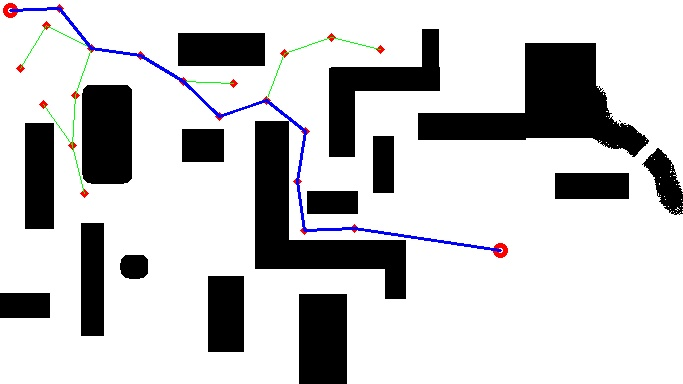
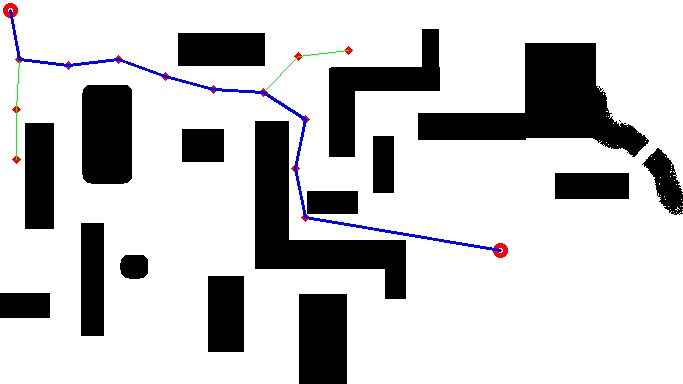
addition of RRT class

diff --git a/Pathplanning/RRT/rrt.py b/Pathplanning/RRT/rrt.py
@@ -23,6 +23,9 @@ class Nodes:
         self.parent_y = []
 
 class RRT:
+    def __init__(self):
+        self.node_list = [0]
+        
     def collision(self, x1,y1,x2,y2):
         color=[]
         x = list(np.arange(x1,x2,(x2-x1)/100))
@@ -30,7 +33,7 @@ class RRT:
         #print("collision",x,y)
         for i in range(len(x)):
             #print(int(x[i]),int(y[i]))
-            color.append(img[int(y[i]),int(x[i])])
+            color.append(self.img[int(y[i]),int(x[i])])
         if (0 in color):
             return True #collision
         else:
@@ -46,15 +49,15 @@ class RRT:
         #print("check_collision",x,y)
 
         # TODO: trim the branch if its going out of image area
-        # print("Image shape",img.shape)
-        hy,hx=img.shape
+        # print("Image shape",self.img.shape)
+        hy,hx=self.img.shape
         if y<0 or y>hy or x<0 or x>hx:
             print("Point out of image bound")
             directCon = False
             nodeCon = False
         else:
             # check direct connection
-            if self.collision(x,y,end[0],end[1]):
+            if self.collision(x,y,self.end[0],self.end[1]):
                 directCon = False
             else:
                 directCon=True
@@ -76,8 +79,8 @@ class RRT:
     # return the neaerst node index
     def nearest_node(self, x,y):
         temp_dist=[]
-        for i in range(len(node_list)):
-            dist,_ = self.dist_and_angle(x,y,node_list[i].x,node_list[i].y)
+        for i in range(len(self.node_list)):
+            dist,_ = self.dist_and_angle(x,y,self.node_list[i].x,self.node_list[i].y)
             temp_dist.append(dist)
         return temp_dist.index(min(temp_dist))
 
@@ -88,20 +91,25 @@ class RRT:
         return (new_x,new_y)
 
 
-    def RRT(self, img, img2, start, end, stepSize):
-        h,l= img.shape # dim of the loaded image
-        # print(img.shape) # (384, 683)
+    def RRT(self, img, img2, coordinates, stepSize):
+        self.start =(coordinates[0],coordinates[1])
+        self.end =(coordinates[2],coordinates[3])
+        self.img = img
+        self.img2 = img2
+        h,l= self.img.shape # dim of the loaded image
+        # print(self.img.shape) # (384, 683)
         # print(h,l)
 
+
         # insert the starting point in the node class
-        # node_list = [0] # list to store all the node points         
-        node_list[0] = Nodes(start[0],start[1])
-        node_list[0].parent_x.append(start[0])
-        node_list[0].parent_y.append(start[1])
+        # self.node_list = [0] # list to store all the node points         
+        self.node_list[0] = Nodes(self.start[0],self.start[1])
+        self.node_list[0].parent_x.append(self.start[0])
+        self.node_list[0].parent_y.append(self.start[1])
 
         # display start and end
-        cv2.circle(img2, (start[0],start[1]), 5,(0,0,255),thickness=3, lineType=8)
-        cv2.circle(img2, (end[0],end[1]), 5,(0,0,255),thickness=3, lineType=8)
+        cv2.circle(self.img2, (self.start[0],self.start[1]), 5,(0,0,255),thickness=3, lineType=8)
+        cv2.circle(self.img2, (self.end[0],self.end[1]), 5,(0,0,255),thickness=3, lineType=8)
 
         i=1
         pathFound = False
@@ -110,8 +118,8 @@ class RRT:
             #print("Random points:",nx,ny)
 
             nearest_ind = self.nearest_node(nx,ny)
-            nearest_x = node_list[nearest_ind].x
-            nearest_y = node_list[nearest_ind].y
+            nearest_x = self.node_list[nearest_ind].x
+            nearest_y = self.node_list[nearest_ind].y
             #print("Nearest node coordinates:",nearest_x,nearest_y)
 
             #check direct connection
@@ -120,42 +128,42 @@ class RRT:
 
             if directCon and nodeCon:
                 #print("Node can connect directly with end")
-                node_list.append(i)
-                node_list[i] = Nodes(tx,ty)
-                node_list[i].parent_x = node_list[nearest_ind].parent_x.copy()
-                node_list[i].parent_y = node_list[nearest_ind].parent_y.copy()
-                node_list[i].parent_x.append(tx)
-                node_list[i].parent_y.append(ty)
+                self.node_list.append(i)
+                self.node_list[i] = Nodes(tx,ty)
+                self.node_list[i].parent_x = self.node_list[nearest_ind].parent_x.copy()
+                self.node_list[i].parent_y = self.node_list[nearest_ind].parent_y.copy()
+                self.node_list[i].parent_x.append(tx)
+                self.node_list[i].parent_y.append(ty)
 
-                cv2.circle(img2, (int(tx),int(ty)), 2,(0,0,255),thickness=3, lineType=8)
-                cv2.line(img2, (int(tx),int(ty)), (int(node_list[nearest_ind].x),int(node_list[nearest_ind].y)), (0,255,0), thickness=1, lineType=8)
-                cv2.line(img2, (int(tx),int(ty)), (end[0],end[1]), (255,0,0), thickness=2, lineType=8)
+                cv2.circle(self.img2, (int(tx),int(ty)), 2,(0,0,255),thickness=3, lineType=8)
+                cv2.line(self.img2, (int(tx),int(ty)), (int(self.node_list[nearest_ind].x),int(self.node_list[nearest_ind].y)), (0,255,0), thickness=1, lineType=8)
+                cv2.line(self.img2, (int(tx),int(ty)), (self.end[0],self.end[1]), (255,0,0), thickness=2, lineType=8)
 
                 print("Path has been found")
-                #print("parent_x",node_list[i].parent_x)
-                for j in range(len(node_list[i].parent_x)-1):
-                    cv2.line(img2, (int(node_list[i].parent_x[j]),int(node_list[i].parent_y[j])), (int(node_list[i].parent_x[j+1]),int(node_list[i].parent_y[j+1])), (255,0,0), thickness=2, lineType=8)
+                #print("parent_x",self.node_list[i].parent_x)
+                for j in range(len(self.node_list[i].parent_x)-1):
+                    cv2.line(self.img2, (int(self.node_list[i].parent_x[j]),int(self.node_list[i].parent_y[j])), (int(self.node_list[i].parent_x[j+1]),int(self.node_list[i].parent_y[j+1])), (255,0,0), thickness=2, lineType=8)
                 # cv2.waitKey(1)
-                cv2.imwrite("Pathplanning/media/"+str(i)+".jpg",img2)
-                cv2.imwrite("Pathplanning/out.jpg",img2)
-                break
+                cv2.imwrite("Pathplanning/media/"+str(i)+".jpg",self.img2)
+                cv2.imwrite("Pathplanning/out.jpg",self.img2)
+                return self.node_list
 
             elif nodeCon:
                 #print("Nodes connected")
-                node_list.append(i)
-                node_list[i] = Nodes(tx,ty)
-                node_list[i].parent_x = node_list[nearest_ind].parent_x.copy()
-                node_list[i].parent_y = node_list[nearest_ind].parent_y.copy()
+                self.node_list.append(i)
+                self.node_list[i] = Nodes(tx,ty)
+                self.node_list[i].parent_x = self.node_list[nearest_ind].parent_x.copy()
+                self.node_list[i].parent_y = self.node_list[nearest_ind].parent_y.copy()
                 # print(i)
-                # print(node_list[nearest_ind].parent_y)
-                node_list[i].parent_x.append(tx)
-                node_list[i].parent_y.append(ty)
+                # print(self.node_list[nearest_ind].parent_y)
+                self.node_list[i].parent_x.append(tx)
+                self.node_list[i].parent_y.append(ty)
                 i=i+1
                 # display
-                cv2.circle(img2, (int(tx),int(ty)), 2,(0,0,255),thickness=3, lineType=8)
-                cv2.line(img2, (int(tx),int(ty)), (int(node_list[nearest_ind].x),int(node_list[nearest_ind].y)), (0,255,0), thickness=1, lineType=8)
-                cv2.imwrite("Pathplanning/media/"+str(i)+".jpg",img2)
-                cv2.imshow("sdc",img2)
+                cv2.circle(self.img2, (int(tx),int(ty)), 2,(0,0,255),thickness=3, lineType=8)
+                cv2.line(self.img2, (int(tx),int(ty)), (int(self.node_list[nearest_ind].x),int(self.node_list[nearest_ind].y)), (0,255,0), thickness=1, lineType=8)
+                cv2.imwrite("Pathplanning/media/"+str(i)+".jpg",self.img2)
+                cv2.imshow("sdc",self.img2)
                 cv2.waitKey(1)
                 continue
 
@@ -163,26 +171,3 @@ class RRT:
                 #print("No direct con. and no node con. :( Generating new rnd numbers")
                 continue
 
-if __name__ == '__main__':
-    Testing = RRT()
-    imagePath = "Pathplanning/RRT/world3.png"
-    stepSize= 50 # stepsize for RRT
-    # remove previously stored data
-    try:
-      os.system("rm -rf Pathplanning/media")
-    except:
-      print("Dir already clean")
-    os.mkdir("Pathplanning/media")
-
-    img = cv2.imread(imagePath,0) # load grayscale maze image
-    img2 = cv2.imread(imagePath) # load colored maze image
-    node_list = [0] # list to store all the node points
-
-    coordinates=[10,10,500,250]
-    start=(coordinates[0],coordinates[1])
-    end=(coordinates[2],coordinates[3])
-
-    # run the RRT algorithm 
-    fps = time.time()
-    Testing.RRT(img, img2, start, end, stepSize)
-    print(f"Total time for processing = {time.time()-fps} seconds")

diff --git a/Delta_Control/viewspace_delta.py b/Delta_Control/viewspace_delta.py
@@ -1,0 +1,61 @@
+""" 2D Plotting of the Delta Robot Working Envelope
+import matplotlib.pyplot as plt
+import numpy as np
+
+# Original data
+x = [0, 50, 75, 80, 90, 160, 210,270, 210, 160, 90, 80, 75, 50, 0]
+y = [0,100,150,220,320, 250,190,0, -190,-250,-320,-220,-150,-100,0]
+
+# Plotting the rotated and mirrored graph
+plt.plot(y, x)
+
+# Setting the labels and title with updated orientation
+plt.xlabel('Height (mm)')
+plt.ylabel('Radius (mm)')
+plt.title('Rotated and Mirrored View of Delta Robot Working Envelope')
+
+# Set the aspect of the plot to be equal, so the circle isn't skewed
+plt.axis('equal')
+# Show grid
+plt.grid(True)
+plt.gca().invert_yaxis()
+# Show the plot
+plt.show()
+"""
+"""3D Plotting of the Delta Robot Working Envelope"""
+import matplotlib.pyplot as plt
+from mpl_toolkits.mplot3d import Axes3D
+import numpy as np
+
+# Original 2D data
+x = np.array([0, 50, 75, 80, 90, 160, 210, 270, 210, 160, 90, 80, 75, 50, 0])
+y = np.array([0, 100, 150, 220, 320, 250, 190, 0, -190, -250, -320, -220, -150, -100, 0])
+z = np.array([0])
+
+# Create a 3D plot
+fig = plt.figure()
+ax = fig.add_subplot(111, projection='3d')
+
+# Create grid values for theta (angle for revolution)
+theta = np.linspace(-np.pi, np.pi, 100)
+# Convert polar coordinates to Cartesian for X and Y using meshgrid, Z remains the same
+X, T = np.meshgrid(x, theta)
+Y, Z = np.meshgrid(y, z)
+
+# Use the meshgrid outputs for transformation
+# X remains the same, Y and Z are transformed based on the angle theta
+X3 = X
+Y3 = Y * np.cos(T)
+Z3 = Y * np.sin(T)
+
+# Plotting the surface
+ax.plot_surface(X3, Y3, Z3, rstride=1, cstride=1, color='b', alpha=0.5, edgecolor='none')
+
+# Labeling axes
+ax.set_xlabel('Radius (mm)')
+ax.set_ylabel('X (mm)')
+ax.set_zlabel('Y (mm)')
+ax.set_title('3D Representation of the Delta Robot Working Envelope')
+
+# Show plot
+plt.show()

diff --git a/Pathplanning/testing.py b/Pathplanning/testing.py
@@ -1,0 +1,51 @@
+import cv2
+import os
+import time
+import sys
+sys.path.append('/home/koen/git/Delta/')  # replace with the actual path to the Delta directory
+from Pathplanning.RRT.rrt import RRT
+
+
+def display_image(window_name, img_path, wait_time=500):
+    """
+    Displays an image in a window.
+    :param window_name: Name of the window in which the image will be displayed.
+    :param img_path: Path to the image file.
+    :param wait_time: Time in milliseconds for which the image is displayed.
+    """
+    img = cv2.imread(img_path)
+    cv2.imshow(window_name, img)
+    cv2.waitKey(wait_time)
+
+if __name__ == '__main__':
+    Testing = RRT()
+    imagePath = "Pathplanning/RRT/world3.png"
+    stepSize = 50  # stepsize for RRT
+
+    # remove previously stored data
+    try:
+        os.system("rm -rf Pathplanning/media")
+    except:
+        print("Dir already clean")
+    os.mkdir("Pathplanning/media")
+
+    img = cv2.imread(imagePath, 0)  # load grayscale maze image
+    img2 = cv2.imread(imagePath)  # load colored maze image
+
+    # Define a sequence of coordinates (startX, startY, endX, endY)
+    coordinate_sequence = [
+        (10, 10, 500, 250),  # First set of coordinates
+        (500, 250, 250, 250)  # Second set of coordinates
+    ]
+
+    for coordinates in coordinate_sequence:
+        # Run the RRT algorithm
+        fps = time.time()
+        Testing.RRT(img, img2, coordinates, stepSize)
+        print(f"Total time for processing = {time.time() - fps} seconds")
+
+        # Assuming the output image is saved at PathPlanning/media/1.jpg after each RRT run
+        # Display the updated path in a live window
+        display_image("RRT Path Planning", "PathPlanning/media/1.jpg", 2000)  # Adjust wait_time as needed
+
+    cv2.destroyAllWindows()  # Close the window when all paths are planned

diff --git a/Delta_Control/main.py b/Delta_Control/main.py
@@ -5,7 +5,11 @@ PORT = 502  # Default Modbus TCP port
 
 def main():
     # Create a Modbus client
-    client = ModbusClient(ROBOT_IP, port=PORT)
+    try:
+        client = ModbusClient(ROBOT_IP, port=PORT)
+    except Exception as e:
+        print(f"An error occurred: {e}")
+        return  
 
     try:
         # Attempt to connect to the robot
